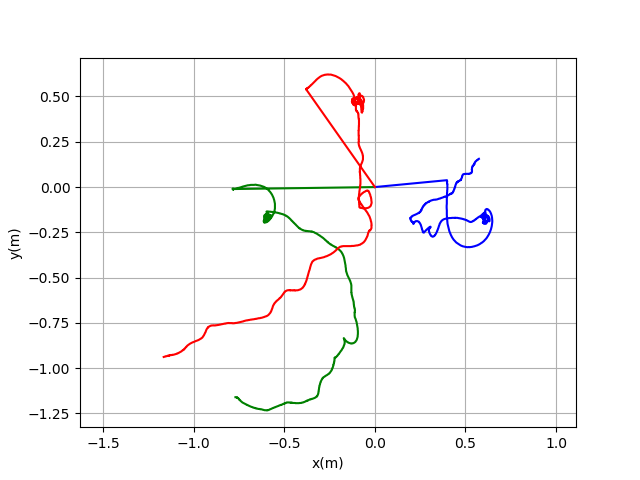
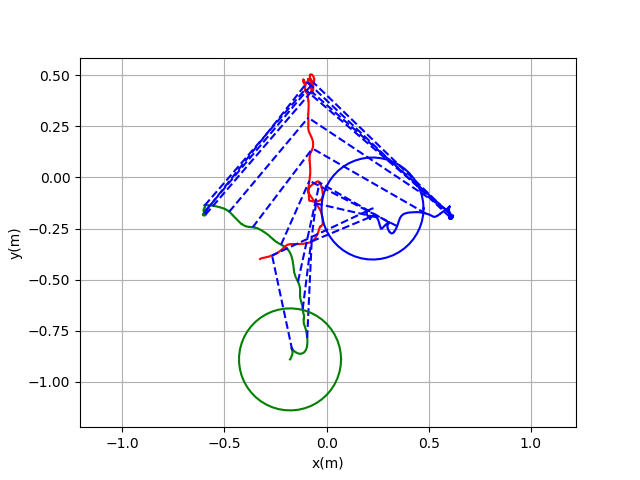
replotted some figures

diff --git a/scripts/plotter.py b/scripts/plotter.py
@@ -64,31 +64,38 @@ def plot_traj(cfs=['cf4', 'cf5', 'cf3'], res_dir='res1/Results/'):
     fig_dir = os.path.join(script_dir, res_dir)
     xs = [[], [], []]
     ys = [[], [], []]
+    policies = [[], [], []]
     fig, ax = plt.subplots()
     colors = ['g', 'b', 'r']
-    for data_dir, color, x, y in zip(data_dirs, colors, xs, ys):
+    for data_dir, x, y in zip(data_dirs, xs, ys):
         with open(data_dir + 'location.csv') as f:
             data = f.readlines()
             for line in data:
                 datastr = line.split(',')
                 x.append(float(datastr[1]))
                 y.append(float(datastr[2]))
-        ax.plot(x, y, color)
+        # with open(data_dir + 'policy.csv') as f:
+        #     data = f.readlines()
+        #     for line in data:
+        #         p.append(line.split(',')[0])
 
-    i_start, i_end = 2000, len(xs[0])-500
-    for i in range(2000, i_end):
-        if i%150 == 0:
+    i_start, i_end = 1000, len(xs[0])-500
+    for x, y, p, color in zip(xs, ys, policies, colors):
+            ax.plot(x[i_start: i_end], y[i_start: i_end], color)
+
+    for i in range(i_start, i_end):
+        if i%80 == 0:
             ax.plot([xs[0][i], xs[2][i]], [ys[0][i], ys[2][i]], 'b--')
             ax.plot([xs[1][i], xs[2][i]], [ys[1][i], ys[2][i]], 'b--')
+            # ring_1 = cap_ring([xs[0][i], ys[0][i]])
+            # ring_2 = cap_ring([xs[1][i], ys[1][i]])
+            # ax.plot(ring_1[:,0], ring_1[:,1], 'g')
+            # ax.plot(ring_2[:,0], ring_2[:,1], 'b')
+        if i == i_end-1:
             ring_1 = cap_ring([xs[0][i], ys[0][i]])
             ring_2 = cap_ring([xs[1][i], ys[1][i]])
             ax.plot(ring_1[:,0], ring_1[:,1], 'g')
             ax.plot(ring_2[:,0], ring_2[:,1], 'b')
-        # if i == i_end-1:
-        #     ring_1 = cap_ring([xs[0][i], ys[0][i]])
-        #     ring_2 = cap_ring([xs[1][i], ys[1][i]])
-        #     ax.plot(ring_1[:,0], ring_1[:,1], 'g')
-        #     ax.plot(ring_2[:,0], ring_2[:,1], 'b')
 
     ax.set_xlabel('x(m)')
     ax.set_ylabel('y(m)')
@@ -98,7 +105,7 @@ def plot_traj(cfs=['cf4', 'cf5', 'cf3'], res_dir='res1/Results/'):
     fig.savefig(fig_dir + 'traj.png')
 
 cfs = ['cf4', 'cf5', 'cf3']
-res = 'res4/Results/'
+res = 'res3/Results/'
 for cf in cfs:
     plot_data(cf, files=['location.csv', 'goal.csv'], 
                 labels=['x(m)', 'y(m)', 'z(m)'], 
@@ -111,5 +118,5 @@ for cf in cfs:
     plot_data(cf, files=['euler.csv', 'cmd_vel.csv'], 
                 labels=['roll(/s)', 'pitch(/s)', 'yaw(/s)', 'thrust(PWM)'], 
                 res_dir=res)
-    
+
 plot_traj(cfs=cfs, res_dir=res)

diff --git a/scripts/strategy.py b/scripts/strategy.py
@@ -251,20 +251,20 @@ class Strategy():
     def _i_strategy(self, d1, d2, a1, a2, tht, a):
         LB = acos(a)
         if self._id == 'D1':
-            phi_2 = pi / 2 - a2
+            phi_2 = pi/2 - a2
             # print(phi_2, a2)
-            psi = -(pi / 2 - LB + a2)
-            d = d2 * (sin(phi_2) / sin(LB))
-            l1 = sqrt(d1 ** 2 + d ** 2 - 2 * d1 * d * cos(tht + psi))
+            psi = -(pi/2 - LB + a2)
+            d = d2*(sin(phi_2)/sin(LB))
+            l1 = sqrt(d1**2 + d**2 - 2*d1*d*cos(tht + psi))
             # print(phi_2, d2, d, l1)
-            cA = (d ** 2 + l1 ** 2 - d1 ** 2) / (2 * d * l1)
-            sA = sin(tht + psi) * (d1 / l1)
+            cA = (d**2 + l1**2 - d1**2)/(2*d*l1)
+            sA = sin(tht + psi)*(d1/l1)
             A = atan2(sA, cA)
             return -(pi - (tht + psi) - A)
         elif self._id == 'D2':
-            return pi / 2 - a2
+            return pi/2 - a2
         elif self._id == 'I':
-            return -(pi / 2 - LB + a2)
+            return -(pi/2 - LB + a2)
 
     def _m_strategy(self):
 
@@ -298,7 +298,7 @@ class Strategy():
                     psi = - abs(phi_1)
                 p = pi - tht + psi
         else:
-            if x < -0.1:
+            if x < -0.05:
                 self._policy_pub.publish('h_strategy')
                 p = self._h_strategy(x, y, z, a)
             else:
